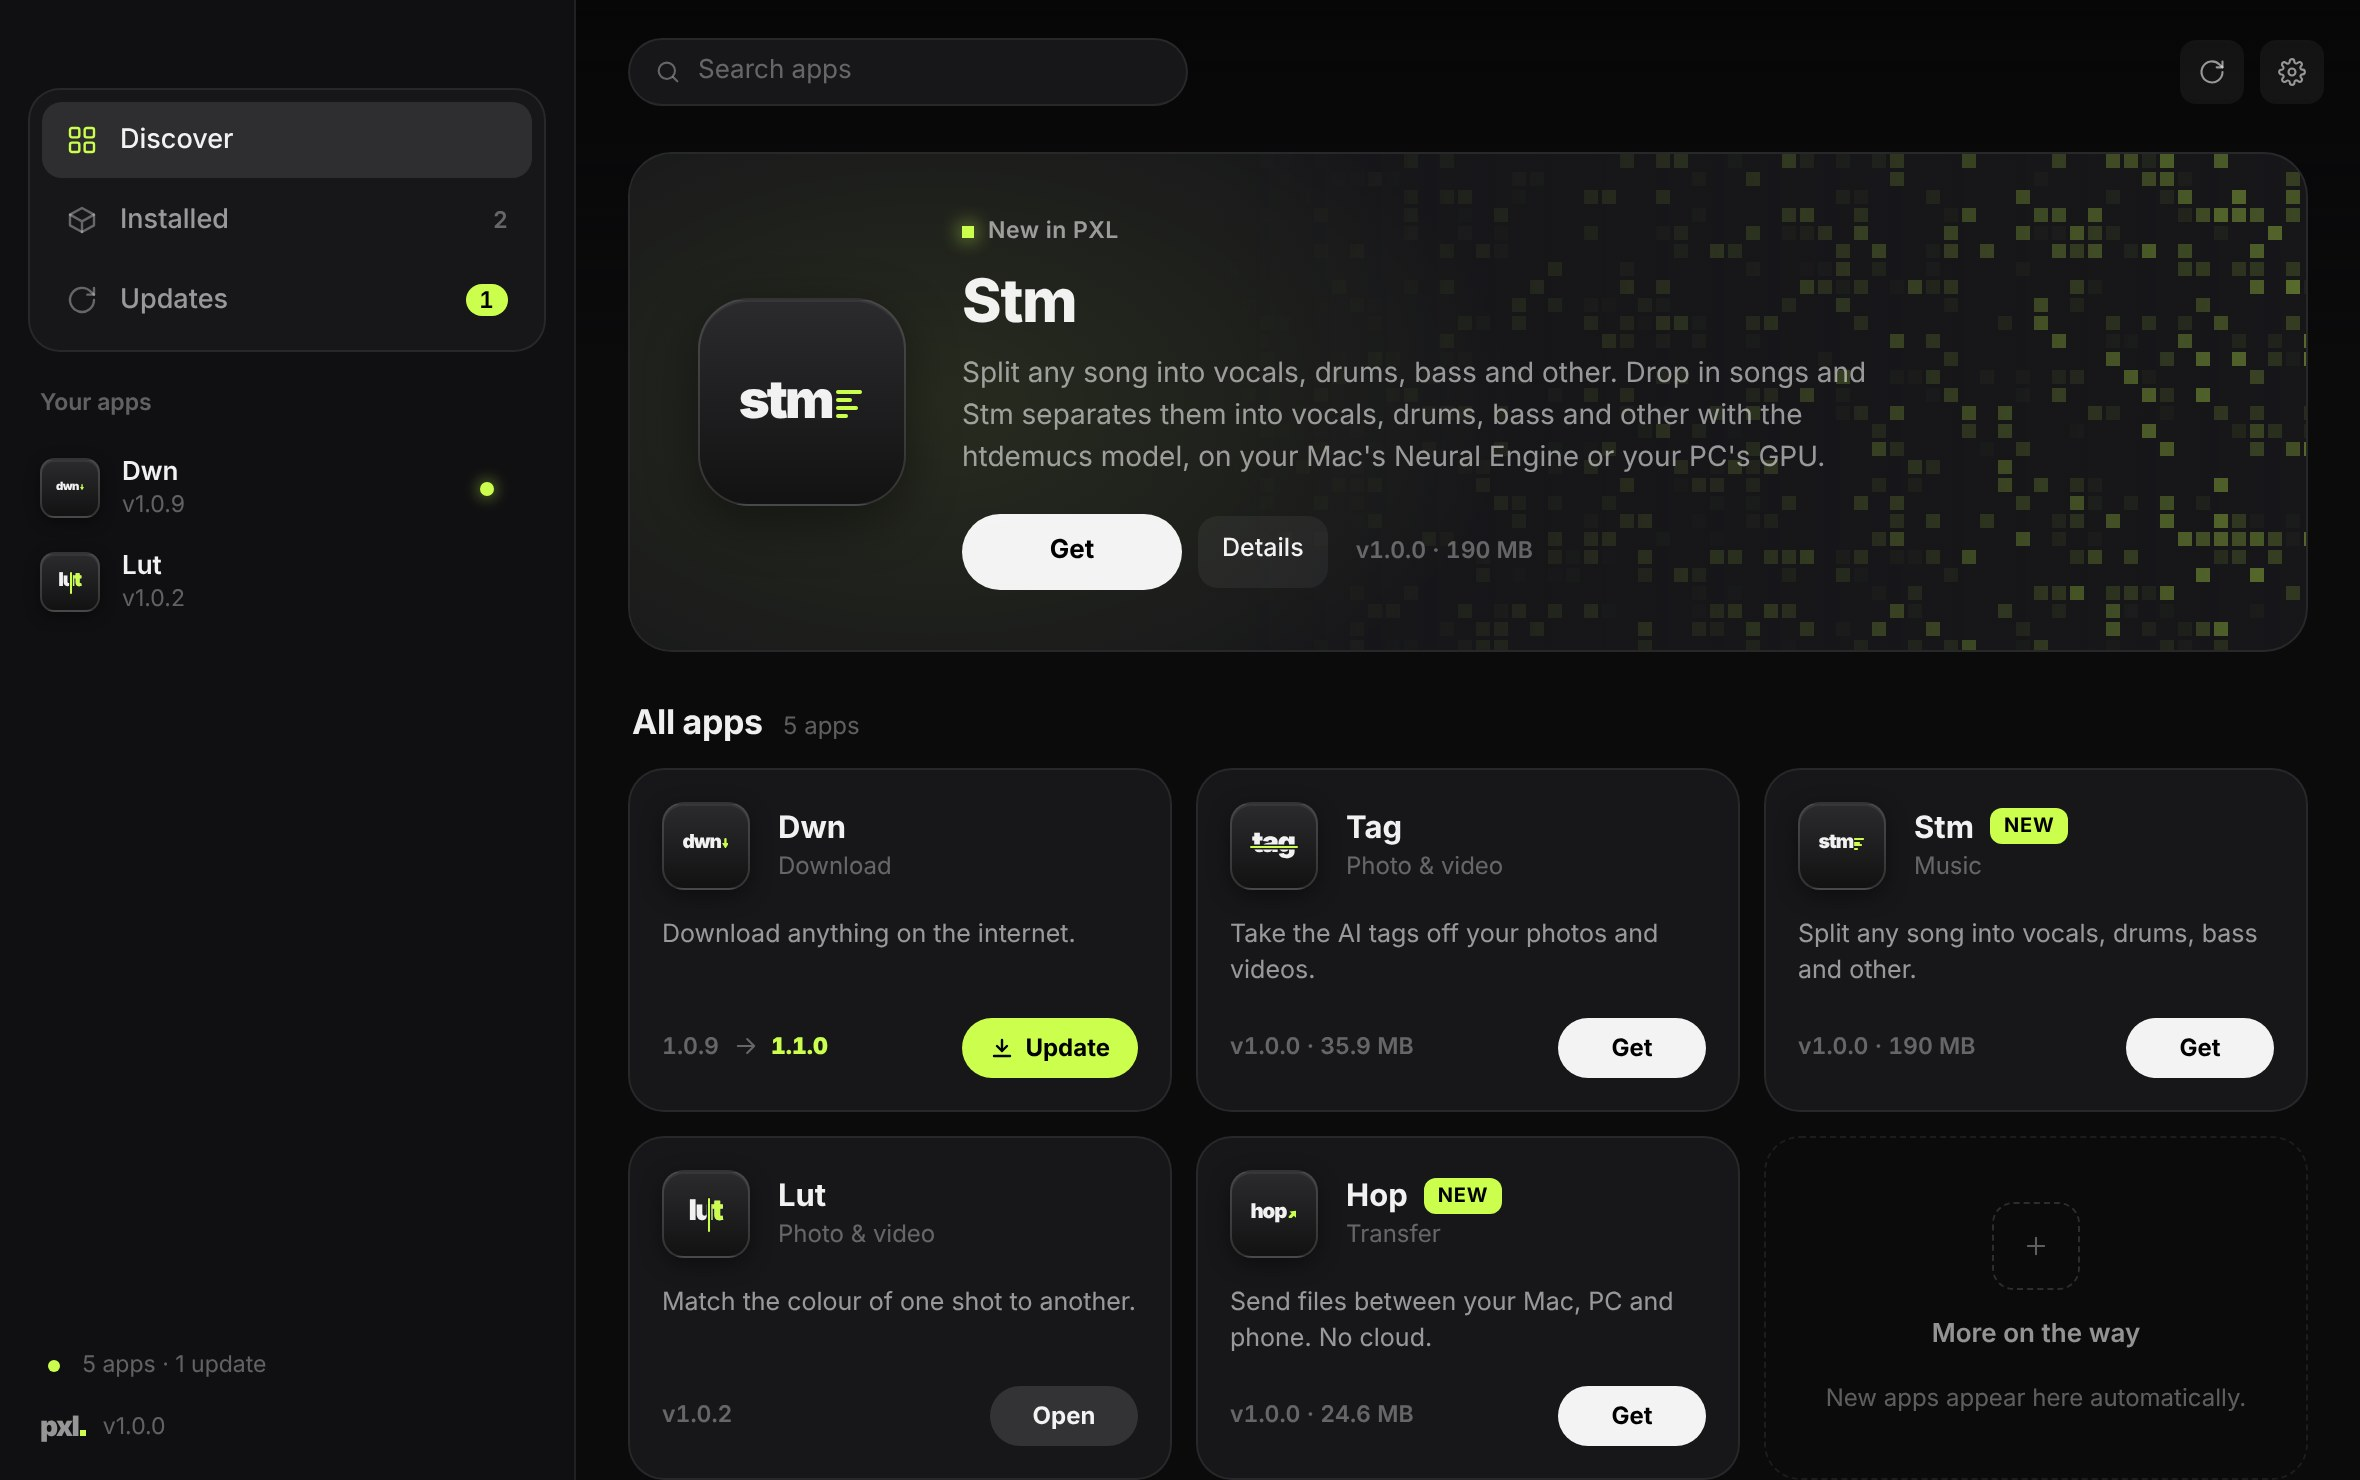
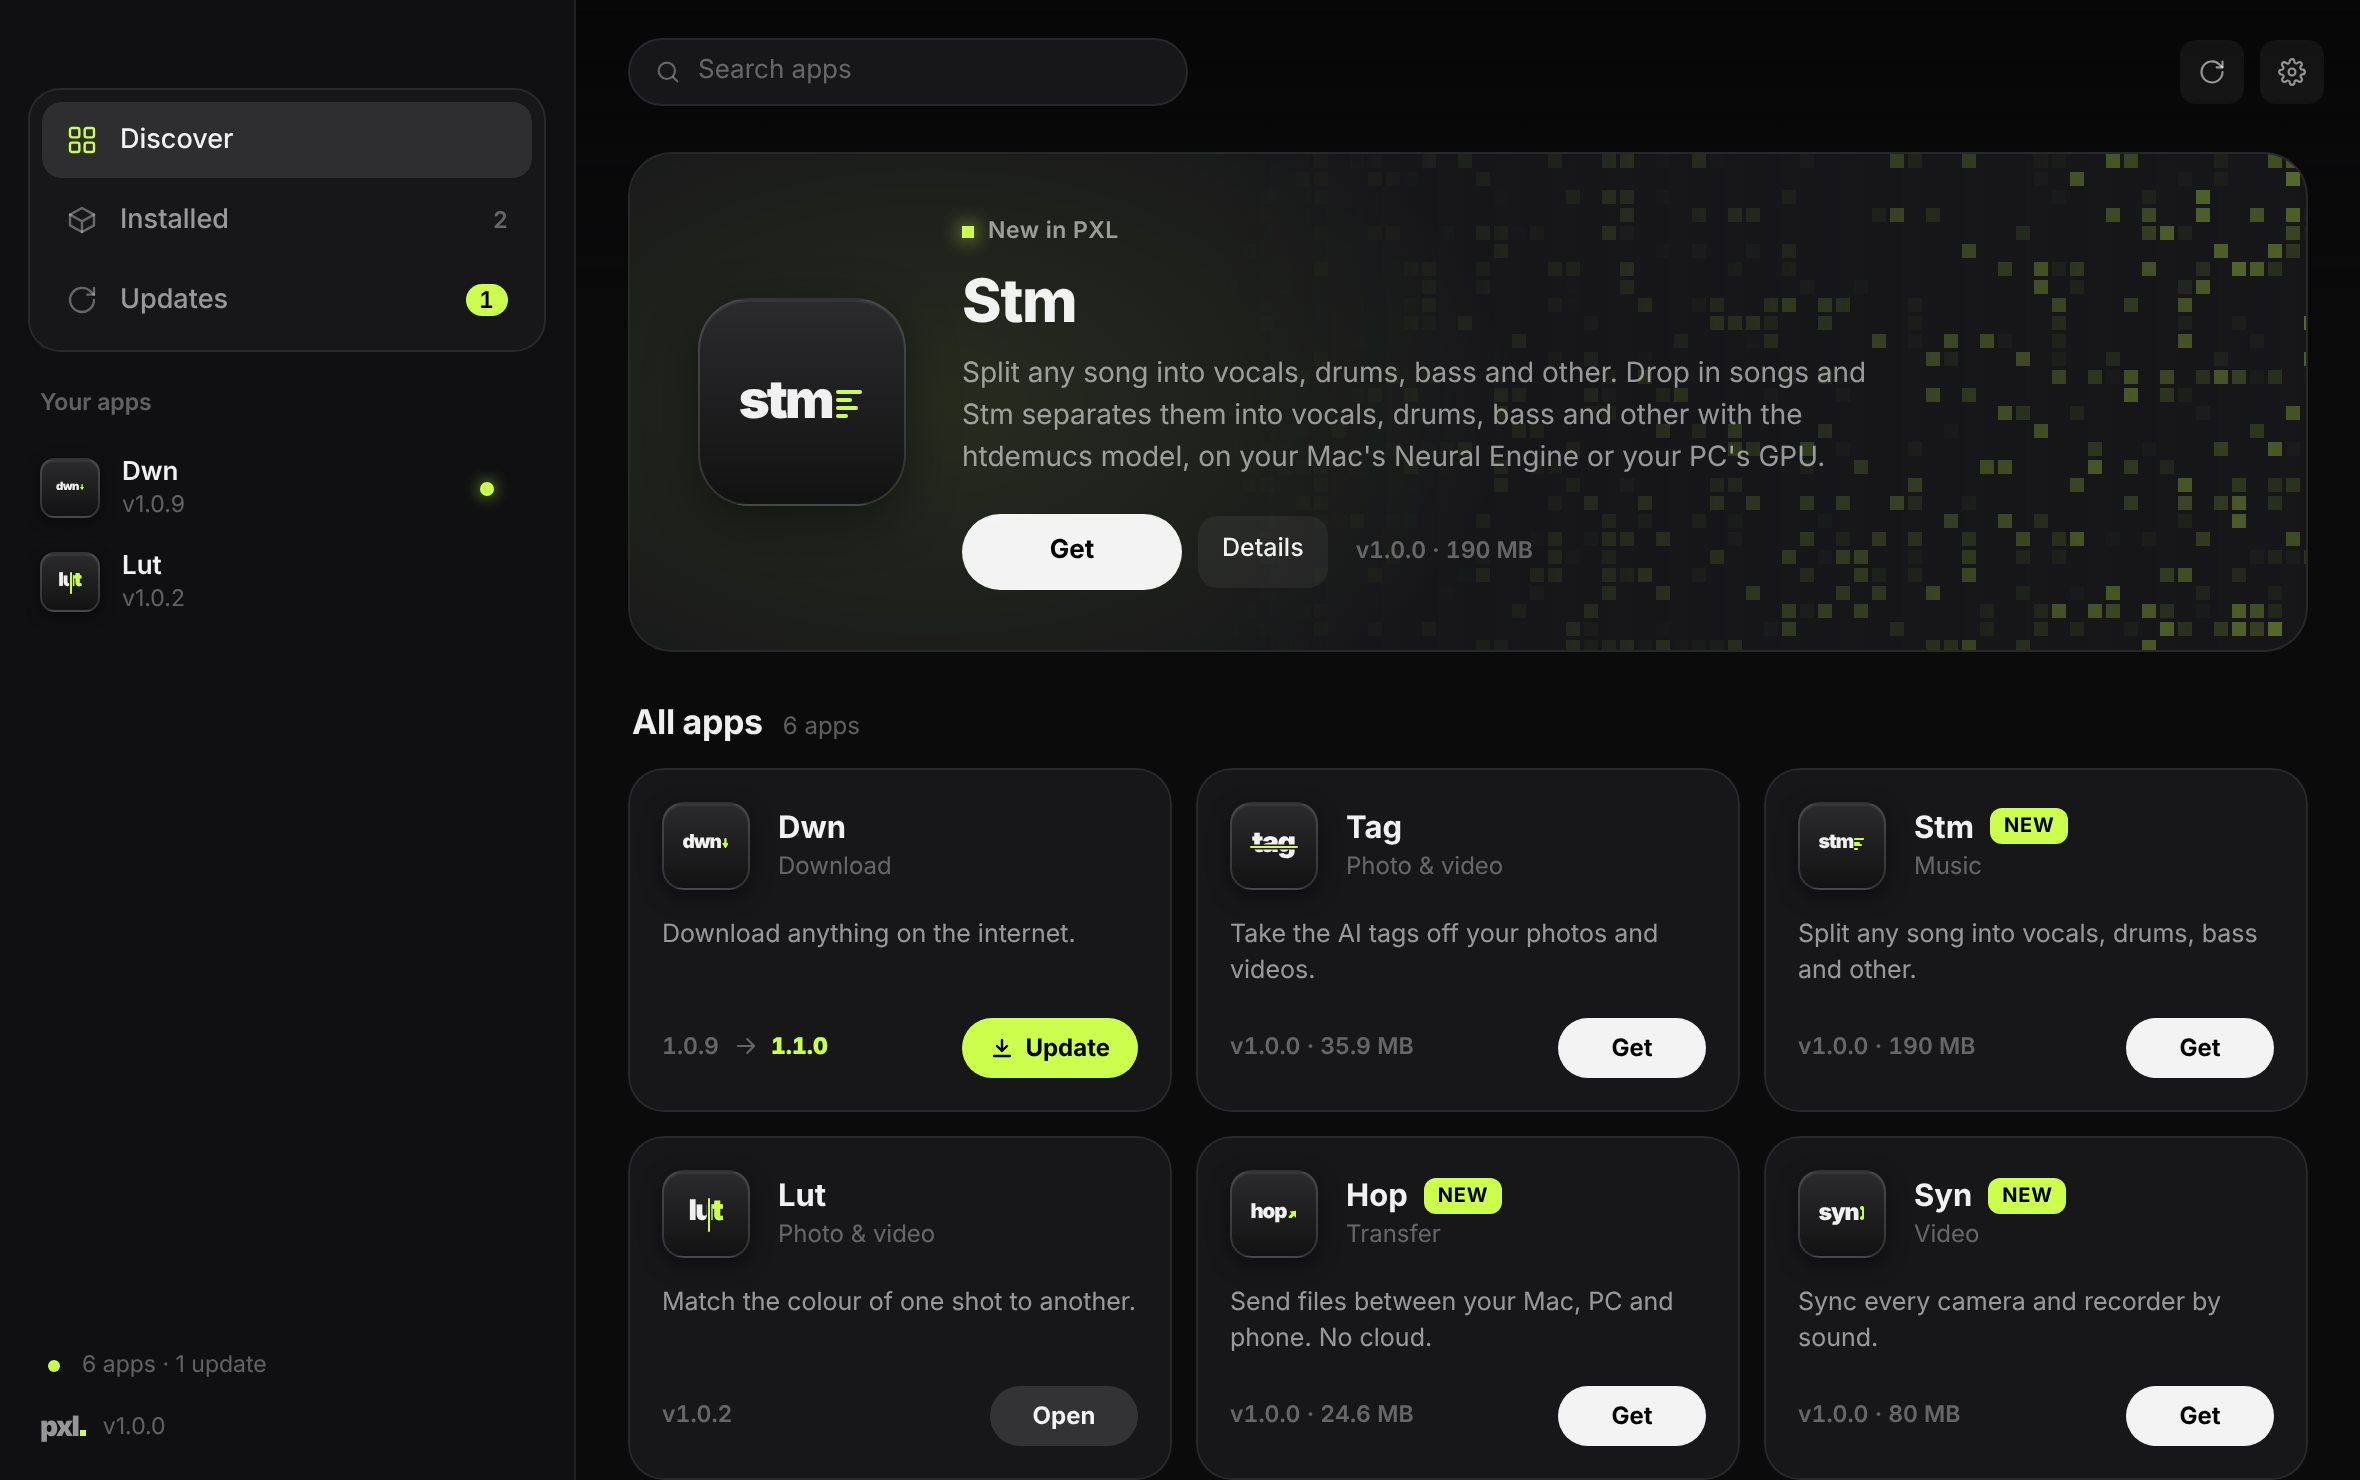
Launcher screenshot: Discover shows Syn (#14)
Rendered from the PXL launcher's demo (pxl PR #12 adds Syn and its sync
glyph), at 1180x740 @2x like the other shots.

Claude-Session: https://claude.ai/code/session_0153qDJYLzdgdgnLBBhtP7X3

diff --git a/index.html b/index.html
@@ -79,7 +79,7 @@
           <button role="tab" aria-selected="false" data-shot="welcome">First launch</button>
         </div>
         <div class="window pxl-window">
-          <img data-shot="discover" src="/shots/discover.jpg" width="2360" height="1480" alt="PXL's Discover page: Stm featured at the top, then cards for Dwn, Tag, Stm, Lut and Hop.">
+          <img data-shot="discover" src="/shots/discover.jpg" width="2360" height="1480" alt="PXL's Discover page: Stm featured at the top, then cards for Dwn, Tag, Stm, Lut, Hop and Syn.">
           <img data-shot="detail" src="/shots/detail.jpg" width="2360" height="1480" loading="lazy" hidden alt="Dwn's page in PXL: its icon, an Update button, screenshots, a description and version details.">
           <img data-shot="updates" src="/shots/updates.jpg" width="2360" height="1480" loading="lazy" hidden alt="PXL's Updates page listing new versions of PXL and Dwn, with an Update all button and Dwn and Lut in the sidebar.">
           <img data-shot="welcome" src="/shots/welcome.jpg" width="2360" height="1480" loading="lazy" hidden alt="PXL's welcome screen on first launch: One click, Always current, No account.">
